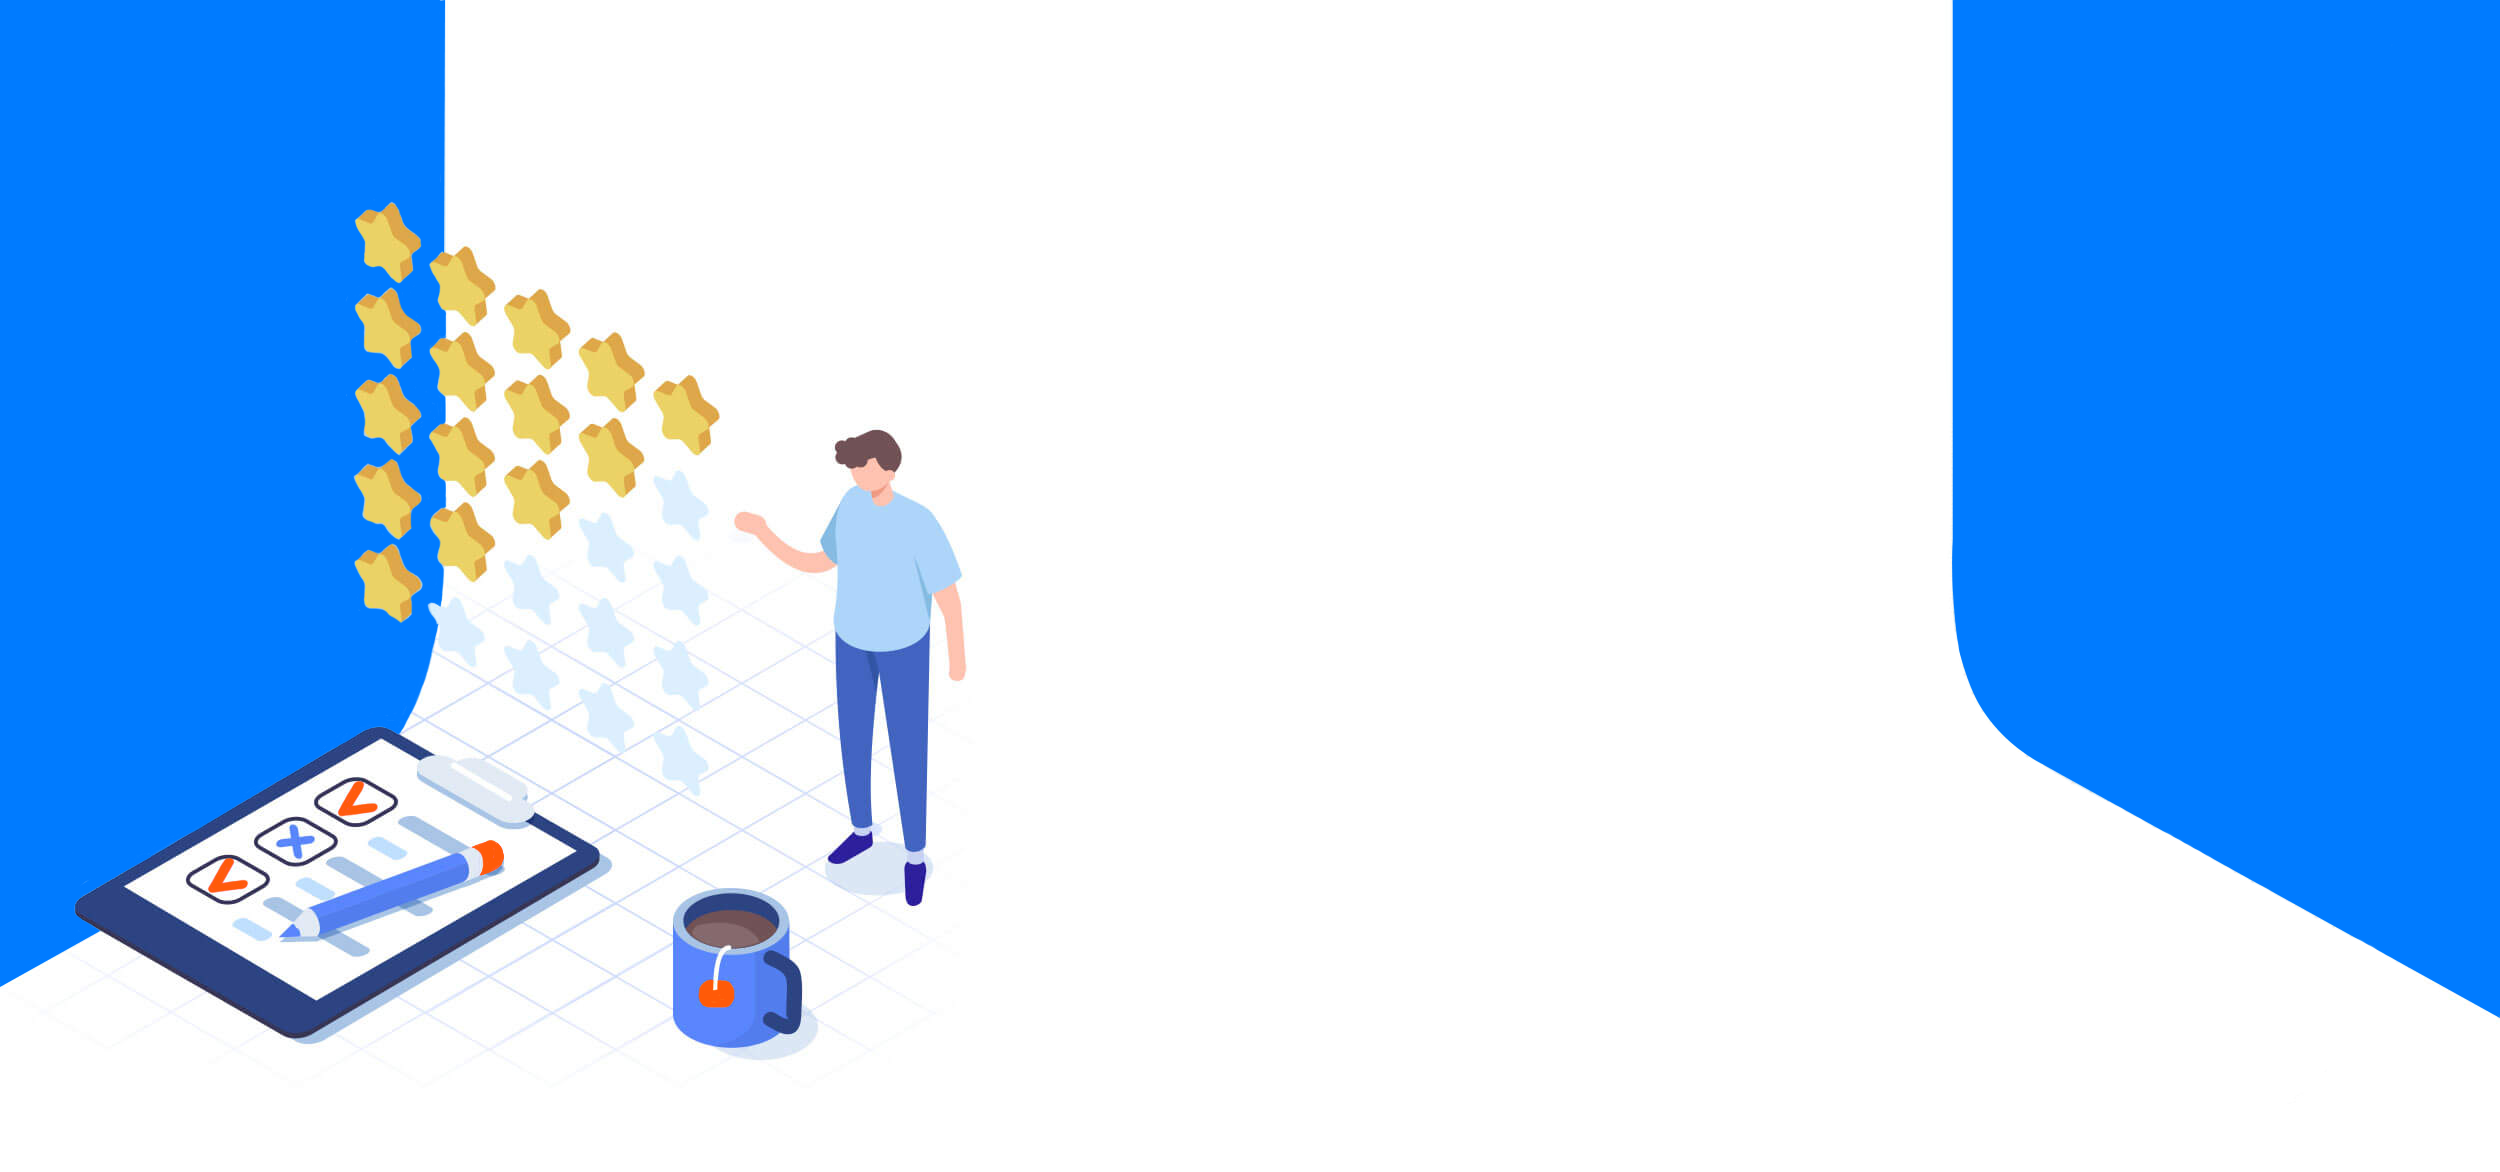
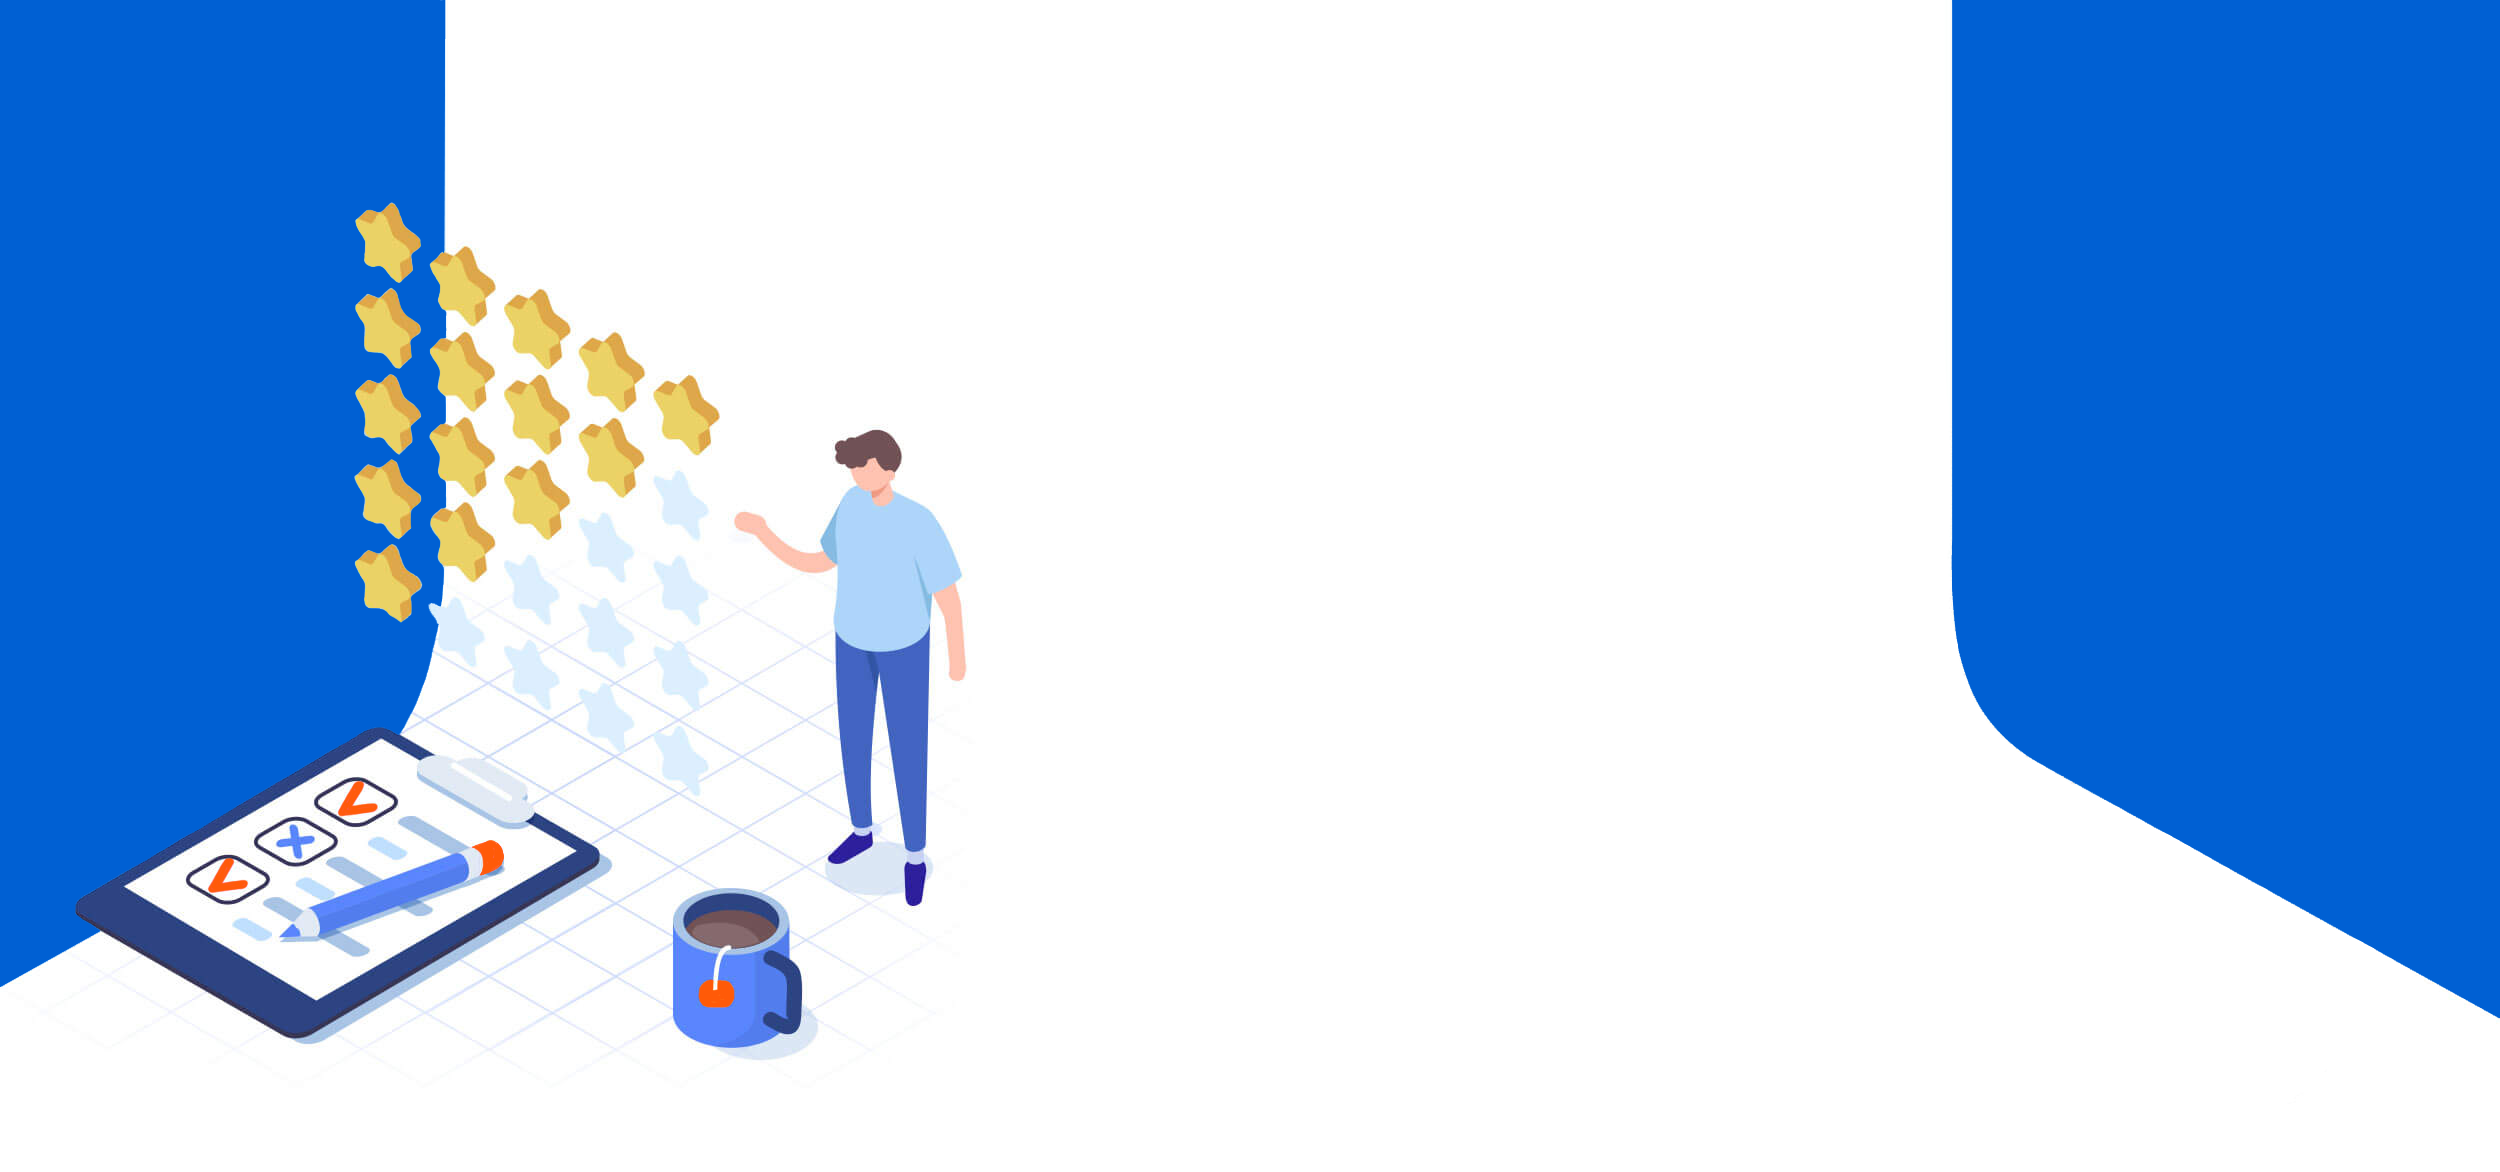
334211

Changed region(s): [[0.78, 0.0, 1.0, 0.8908], [0.0, 0.0, 0.1872, 0.8294]]

diff --git a/index.html b/index.html
@@ -4887,9 +4887,9 @@
         }
 
         .bt_bb_color_scheme_8.bt_bb_button.bt_bb_style_outline a {
-            box-shadow: 0 0 0 2px #036 inset, 0 4px 0 0 rgba(24, 24, 24, .15) inset;
+            box-shadow: 0 0 0 2px #0060d3 inset, 0 4px 0 0 rgba(24, 24, 24, .15) inset;
             background-color: transparent;
-            color: #036;
+            color: #0060d3;
         }
 
         .bt_bb_color_scheme_8.bt_bb_button.bt_bb_style_outline:hover a,
@@ -7051,7 +7051,7 @@
                                                             <div class="slick-slider fade"
                                                                 data-slick='{ "lazyLoad": "progressive", "cssEase": "ease-out", "speed": "600", "accessibility": false, "fade": true, "arrows": false, "adaptiveHeight": true, "dots": true,"autoplay": true, "autoplaySpeed": 4500,"pauseOnHover": false}'>
                                                                 <div class="bt_bb_content_slider_item bt_bb_column_background_image slick slick-slide"
-                                                                    style="background-image:url(assets/images/Home/img-slider-03.png); width: 100%; position: relative; left: 0; top: -100px; z-index: 999; opacity: 1;">
+                                                                    style="background-image:url(assets/images/Home/img-slider-01.png); width: 100%; position: relative; left: 0; top: -100px; z-index: 999; opacity: 1;">
                                                                     <div
                                                                         class="bt_bb_content_slider_item_content content">
                                                                         <div class="bt_bb_row_inner"
@@ -7084,7 +7084,7 @@
                                                                                                             your
                                                                                                             Team</u><br />
                                                                                                         <b
-                                                                                                            style="color:#036">Plan
+                                                                                                            style="color:#0060d3">Plan
                                                                                                             your
                                                                                                             Projects</b></span>
                                                                                                 </span>
@@ -7161,7 +7161,7 @@
                                                                                                             Building
                                                                                                             Your</u><br />
                                                                                                         <b
-                                                                                                            style="color: #036;">Foundation</b></span></span>
+                                                                                                            style="color: #0060d3;">Foundation</b></span></span>
                                                                                             </h1>
                                                                                         </header>
                                                                                         <div class="bt_bb_separator bt_bb_border_style_none bt_bb_top_spacing_small bt_bb_bottom_spacing_normal"
@@ -7196,7 +7196,7 @@
                                                                     </div>
                                                                 </div>
                                                                 <div class="bt_bb_content_slider_item bt_bb_column_background_image slick slick-slide"
-                                                                    style="background-image:url(assets/images/Home/img-slider-01.png); background-size: cover; background-position: center; height: 100vh;">
+                                                                    style="background-image:url(assets/images/Home/img-slider-03.png); background-size: cover; background-position: center; height: 100vh;">
                                                                     <div class="bt_bb_content_slider_item_content content d-flex align-items-start h-100"
                                                                         style="padding-top: 50px;">
                                                                         <div class="bt_bb_row_inner"
@@ -7230,7 +7230,7 @@
                                                                                                             business
                                                                                                             while</u><br />
                                                                                                         <b
-                                                                                                            style="color: #036;">empower
+                                                                                                            style="color: #0060d3;">empower
                                                                                                             your
                                                                                                             team</b>
                                                                                                     </span></span>
@@ -7312,7 +7312,7 @@
                                                                                                             style="color: #faae00;">Exceeding
                                                                                                             Your</u><br />
                                                                                                         <b
-                                                                                                            style="color: #036;">Expectations</b></span></span>
+                                                                                                            style="color: #0060d3;">Expectations</b></span></span>
                                                                                             </h1>
                                                                                         </header>
                                                                                         <div class="bt_bb_separator bt_bb_border_style_none bt_bb_top_spacing_small bt_bb_bottom_spacing_normal"

diff --git a/assets/css/content_elements.crush.css b/assets/css/content_elements.crush.css
@@ -1729,6 +1729,8 @@ html[data-bt_bb_screen_resolution="xl"].bt_bb_backgroud_fixed_supported .bt_bb_p
 .bt_bb_row_inner_holder .bt_bb_column_inner .bt_bb_column_inner_content {
     color: var(--inner-column-inner-primary-color);
     background-color: var(--inner-column-inner-secondary-color);
+    top: -37px;
+    position: relative;
 }
 
 .bt_bb_align_left .bt_bb_align_right.bt_bb_column,
